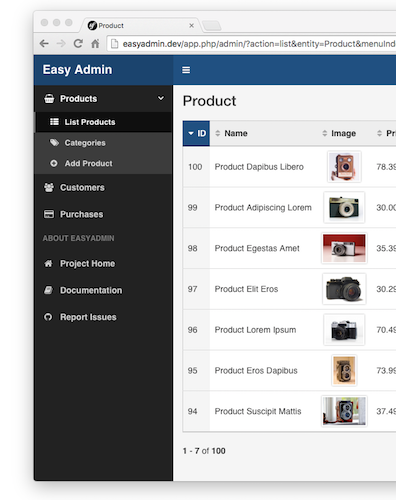
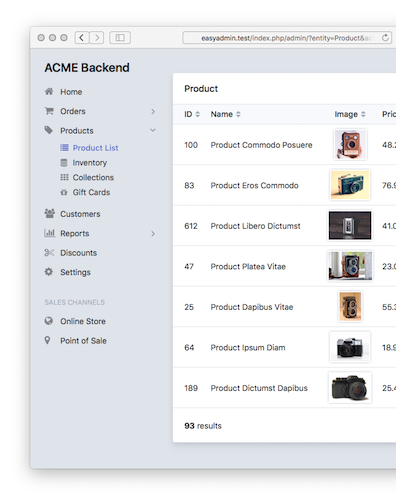
Updated all the images to the new design

diff --git a/doc/book/edit-new-configuration.rst b/doc/book/edit-new-configuration.rst
@@ -554,8 +554,8 @@ Selecting the Form Theme
 By default, forms are displayed using a proprietary form theme compatible with
 the Bootstrap 4 CSS framework.
 
-.. image:: ../images/easyadmin-form-horizontal.png
-   :alt: Default horizontal form style
+.. image:: ../images/easyadmin-new-view.png
+   :alt: Default form style
 
 The form style can be changed with the ``form_theme`` design option:
 
@@ -656,7 +656,7 @@ a subtle divider line. They are defined with elements of type ``section``:
                         - name
                         - surname
                         - { type: 'section', label: 'Contact information', icon: 'phone',
-                            help: 'Phone number is preferred', css_class: 'danger' }
+                            help: 'Phone number is preferred' }
                         - email
                         - phoneNumber
 
@@ -695,15 +695,13 @@ elements of type ``group``:
                 class: App\Entity\Customer
                 form:
                     fields:
-                        - { type: 'group', columns: 6, label: 'Basic information' }
+                        - { type: 'group', columns: 4, label: 'Basic information' }
+                        - id
                         - name
                         - surname
                         - { type: 'group', label: 'Contact information', icon: 'phone', columns: 6 }
                         - email
                         - phoneNumber
-                        - { type: 'group', columns: 6, css_class: 'text-danger', help: 'Only for administrators' }
-                        - id
-        # ...
 
 .. image:: ../images/easyadmin-form-group.png
    :alt: A form using groups to separate its fields
@@ -753,16 +751,11 @@ are defined with elements of type ``tab``:
                 class: App\Entity\User
                 form:
                     fields:
-                        - { type: 'tab' , label: 'Account Information', icon: 'user' }
-                        - username
-                        - firstName
-                        - lastName
-                        - { type: 'tab', label: 'Contact Information', icon: 'envelope-o' }
-                        - { type: 'group', label: 'Address', columns: 6 }
-                        - street
-                        - zip
-                        - city
-                        - { type: 'group', label: 'Media', columns: 6 }
+                        - { type: 'tab' , label: 'Basic Information' }
+                        - id
+                        - name
+                        - surname
+                        - { type: 'tab', label: 'Contact Information', icon: 'phone' }
                         - email
                         - phone
 

diff --git a/doc/book/actions-configuration.rst b/doc/book/actions-configuration.rst
@@ -260,7 +260,7 @@ By default, the actions showed in the ``list`` view only display their label
 .. image:: ../images/easyadmin-listing-actions-label-only.png
    :alt: Action Labels in Entity Listing
 
-Adding an icon for each action is as easy as defining their ``icon`` option:
+This is configurable thanks to the ``icon``, ``label`` and ``title`` options:
 
 .. code-block:: yaml
 
@@ -268,50 +268,14 @@ Adding an icon for each action is as easy as defining their ``icon`` option:
     easy_admin:
         list:
             actions:
-                - { name: 'show', icon: 'search' }
+                # displays both the action label and a custom icon
                 - { name: 'edit', icon: 'pencil' }
-        # ...
 
-This configuration makes the entity listing looks as follow:
+                # hides the action label and displays only the icon
+                - { name: 'edit', icon: 'pencil', label: false }
 
-.. image:: ../images/easyadmin-listing-actions-label-and-icon.png
-   :alt: Action Labels and Icons in Entity Listing
-
-When displaying entities with lots of information, it may be useful to remove
-the action label and display just their icons. To do so, define an empty string
-for the ``label`` option or set its value to ``false``:
-
-.. code-block:: yaml
-
-    # config/packages/easy_admin.yaml
-    easy_admin:
-        list:
-            actions:
-                - { name: 'show', icon: 'search', label: '' }
-                - { name: 'edit', icon: 'pencil', label: '' }
-                # if you prefer, set labels to false
-                # - { name: 'show', icon: 'search', label: false }
-                # - { name: 'edit', icon: 'pencil', label: false }
-        # ...
-
-This configuration makes the entity listing looks as follow:
-
-.. image:: ../images/easyadmin-listing-actions-icon-only.png
-   :alt: Action Icons in Entity Listing
-
-Finally, when displaying only the action icon, it's useful to define the
-``title`` attribute to display it when the user moves the cursor over the action
-icon:
-
-.. code-block:: yaml
-
-    # config/packages/easy_admin.yaml
-    easy_admin:
-        list:
-            actions:
-                - { name: 'show', icon: 'search', label: '', title: 'Search' }
-                - { name: 'edit', icon: 'pencil', label: '', title: 'Edit' }
-        # ...
+                # the 'title' content is displayed when the cursor is over the icon
+                - { name: 'edit', icon: 'pencil', label: false, title: 'Search' }
 
 -----
 

diff --git a/doc/tutorials/custom-property-options.rst b/doc/tutorials/custom-property-options.rst
@@ -106,17 +106,11 @@ The custom ``tag_collection.html.twig`` template would look as follows:
 .. code-block:: twig
 
     {# templates/easy_admin/tag_collection.html.twig #}
-
     {% set colors = field_options.label_colors|default(['primary']) %}
 
     {% for tag in value %}
         <span class="label label-{{ cycle(colors, loop.index) }}">{{ tag }}</span>
     {% endfor %}
-
-And this property would be rendered in the ``list`` view as follows:
-
-.. image:: ../images/easyadmin-design-customization-custom-data-types.png
-   :alt: Default listing interface
 
 Custom Entity Options
 ---------------------
